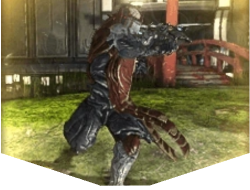
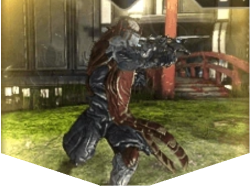
Add more arts. Edit some arts.

diff --git a/src/main/java/tenno_mod/cards/uncommon/ConditionOverload_TENNO.java b/src/main/java/tenno_mod/cards/uncommon/ConditionOverload_TENNO.java
@@ -21,7 +21,7 @@ public class ConditionOverload_TENNO extends CustomCard {
   private static final CardStrings cardStrings = CardCrawlGame.languagePack.getCardStrings(ID);
   public static final String NAME = cardStrings.NAME;
   public static final String DESCRIPTION = cardStrings.DESCRIPTION;
-  public static final String IMG_PATH = "img/cards/Beta.png";
+  public static final String IMG_PATH = "img/cards/ConditionOverload.png";
   private static final int COST = 1;
   private static final int ATTACK_DMG = 10;
   private static final int MAGIC_NUMBER = 4;

diff --git a/src/main/java/tenno_mod/cards/common/DoubleGuard_TENNO.java b/src/main/java/tenno_mod/cards/common/DoubleGuard_TENNO.java
@@ -15,7 +15,7 @@ public class DoubleGuard_TENNO extends CustomCard {
   private static final CardStrings cardStrings = CardCrawlGame.languagePack.getCardStrings(ID);
   public static final String NAME = cardStrings.NAME;
   public static final String DESCRIPTION = cardStrings.DESCRIPTION;
-  public static final String IMG_PATH = "img/cards/Skill.png";
+  public static final String IMG_PATH = "img/cards/DoubleGuard.png";
   private static final int COST = 1;
   private static final int BLOCK_AMT = 4;
   private static final int UPGRADE_PLUS_BLOCK = 2;

diff --git a/src/main/java/tenno_mod/cards/basic/Defend_TENNO.java b/src/main/java/tenno_mod/cards/basic/Defend_TENNO.java
@@ -16,7 +16,7 @@ public class Defend_TENNO extends CustomCard {
   private static final CardStrings cardStrings = CardCrawlGame.languagePack.getCardStrings(ID);
   public static final String NAME = cardStrings.NAME;
   public static final String DESCRIPTION = cardStrings.DESCRIPTION;
-  public static final String IMG_PATH = "img/cards/Skill.png";
+  public static final String IMG_PATH = "img/cards/Defend.png";
   private static final int COST = 1;
   private static final int BLOCK_AMT = 5;
   private static final int UPGRADE_PLUS_BLOCK = 3;

diff --git a/src/main/java/tenno_mod/cards/basic/BulletJump_TENNO.java b/src/main/java/tenno_mod/cards/basic/BulletJump_TENNO.java
@@ -17,7 +17,7 @@ public class BulletJump_TENNO extends CustomCard {
   private static final CardStrings cardStrings = CardCrawlGame.languagePack.getCardStrings(ID);
   public static final String NAME = cardStrings.NAME;
   public static final String DESCRIPTION = cardStrings.DESCRIPTION;
-  public static final String IMG_PATH = "img/cards/Skill.png";
+  public static final String IMG_PATH = "img/cards/BulletJump.png";
   private static final int COST = 1;
   private static final int UPG_COST = 0;
   private static final int BLOCK_AMT = 6;

diff --git a/src/main/java/tenno_mod/cards/common/ReturnStroke_TENNO.java b/src/main/java/tenno_mod/cards/common/ReturnStroke_TENNO.java
@@ -19,7 +19,7 @@ public class ReturnStroke_TENNO extends CustomCard {
   public static final String NAME = cardStrings.NAME;
   public static final String DESCRIPTION = cardStrings.DESCRIPTION;
   public static final String DESCRIPTION_UPG = cardStrings.UPGRADE_DESCRIPTION;
-  public static final String IMG_PATH = "img/cards/Beta.png";
+  public static final String IMG_PATH = "img/cards/ReturnStroke.png";
   private static final int COST = 1;
   private static final int ATTACK_DMG = 3;
   private static final int UPGRADE_PLUS_DMG = 2;

diff --git a/src/main/java/tenno_mod/cards/common/CombatKnowledge_TENNO.java b/src/main/java/tenno_mod/cards/common/CombatKnowledge_TENNO.java
@@ -18,7 +18,7 @@ public class CombatKnowledge_TENNO extends CustomCard {
   public static final String DESCRIPTION = cardStrings.DESCRIPTION;
   public static final String UPGRADE_DESCRIPTION = cardStrings.UPGRADE_DESCRIPTION;
   public static final String[] EXTENDED_DESCRIPTION = cardStrings.EXTENDED_DESCRIPTION;
-  public static final String IMG_PATH = "img/cards/Skill.png";
+  public static final String IMG_PATH = "img/cards/CombatKnowledge.png";
   private static final int COST = 1;
   private static final int MAGIC_NUMBER = 2;
 

diff --git a/src/main/java/tenno_mod/cards/common/AgileGuard_TENNO.java b/src/main/java/tenno_mod/cards/common/AgileGuard_TENNO.java
@@ -17,7 +17,7 @@ public class AgileGuard_TENNO extends CustomCard {
   public static final String NAME = cardStrings.NAME;
   public static final String DESCRIPTION = cardStrings.DESCRIPTION;
   public static final String DESCRIPTION_UPG = cardStrings.UPGRADE_DESCRIPTION;
-  public static final String IMG_PATH = "img/cards/Skill.png";
+  public static final String IMG_PATH = "img/cards/AgileGuard.png";
   private static final int COST = 1;
   private static final int BLOCK_AMT = 9;
   private static final int UPGRADE_PLUS_BLOCK = 3;

diff --git a/src/main/java/tenno_mod/cards/uncommon/Gut_TENNO.java b/src/main/java/tenno_mod/cards/uncommon/Gut_TENNO.java
@@ -18,7 +18,7 @@ public class Gut_TENNO extends CustomCard {
   private static final CardStrings cardStrings = CardCrawlGame.languagePack.getCardStrings(ID);
   public static final String NAME = cardStrings.NAME;
   public static final String DESCRIPTION = cardStrings.DESCRIPTION;
-  public static final String IMG_PATH = "img/cards/Beta.png";
+  public static final String IMG_PATH = "img/cards/Gut.png";
   private static final int COST = 1;
   private static final int ATTACK_DMG = 5;
   private static final int UPG_DAMAGE = 2;

diff --git a/src/main/java/tenno_mod/cards/common/QuickGuard_TENNO.java b/src/main/java/tenno_mod/cards/common/QuickGuard_TENNO.java
@@ -15,7 +15,7 @@ public class QuickGuard_TENNO extends CustomCard {
   private static final CardStrings cardStrings = CardCrawlGame.languagePack.getCardStrings(ID);
   public static final String NAME = cardStrings.NAME;
   public static final String DESCRIPTION = cardStrings.DESCRIPTION;
-  public static final String IMG_PATH = "img/cards/Skill.png";
+  public static final String IMG_PATH = "img/cards/QuickGuard.png";
   private static final int COST = 0;
   private static final int BLOCK_AMT = 1;
 

diff --git a/Changelog.md b/Changelog.md
@@ -1,3 +1,8 @@
+## 5/25/2019
+
+No release. Edited art for some cards to get better framing. 
+Added art for more cards. 
+
 ### 5/21/2019 - 0.2.2
 
 Increase the version number to commemmorate graphics kicking into gear.

diff --git a/README.md b/README.md
@@ -8,7 +8,7 @@ Cards and Relics: Done!
 Graphics progress:
 
 * Relics: DONE
-* Cards: 12/78
+* Cards: 21?/78
 * Powers: 0/??
 * Other: 
     * Idle/Dead graphic: SKIPPED
